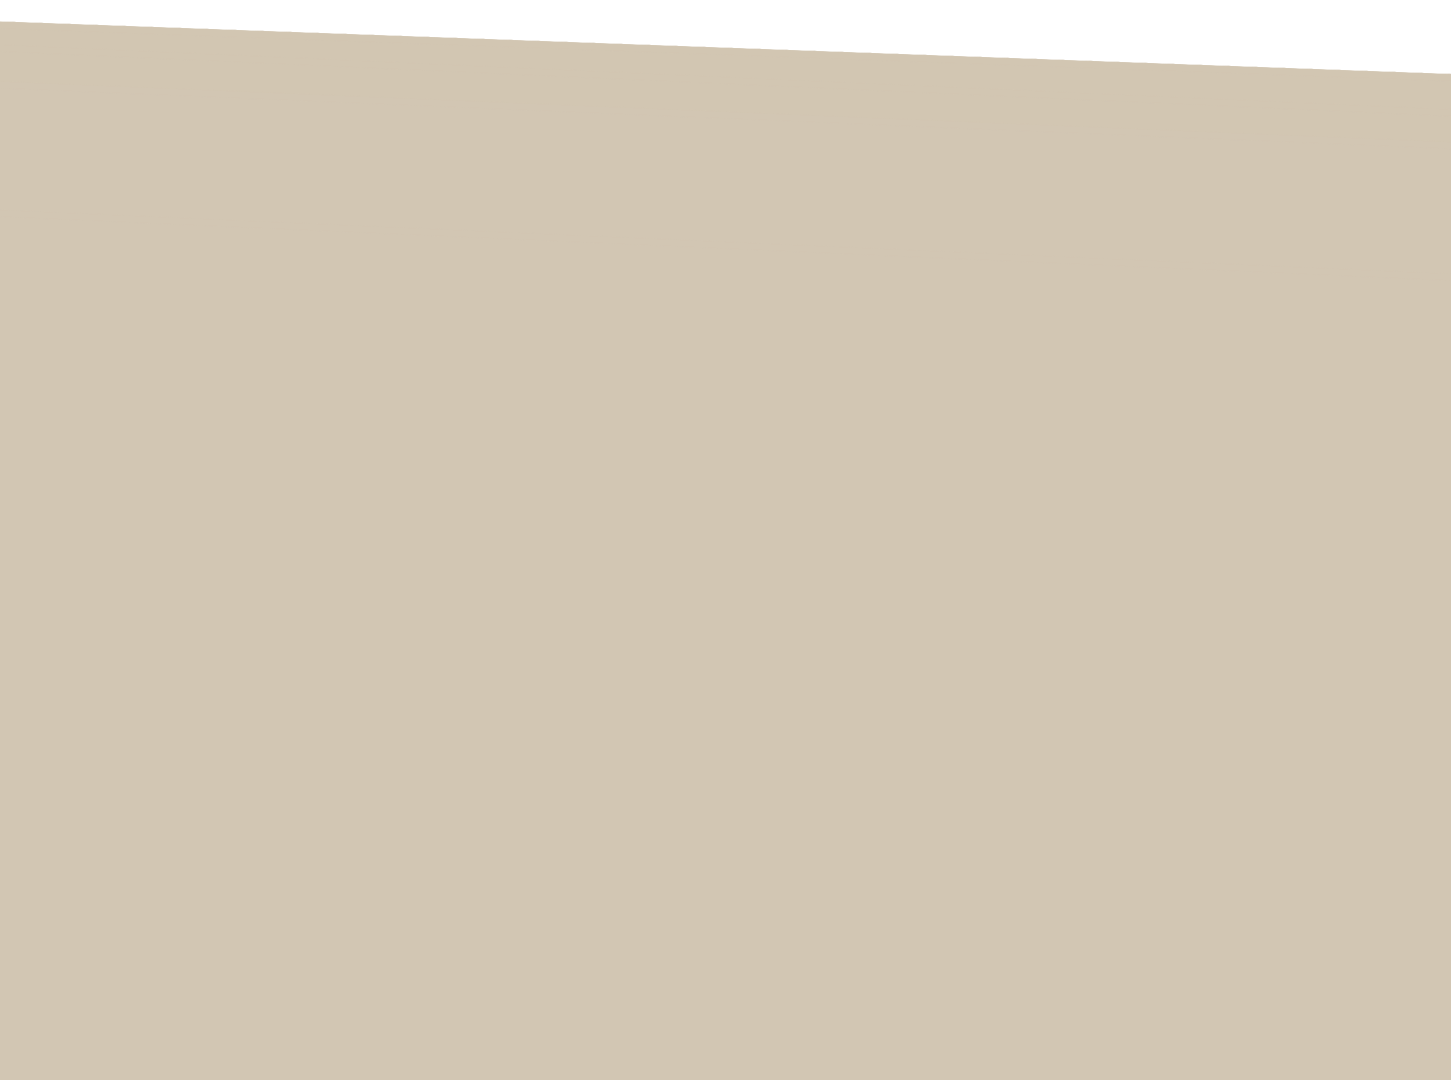
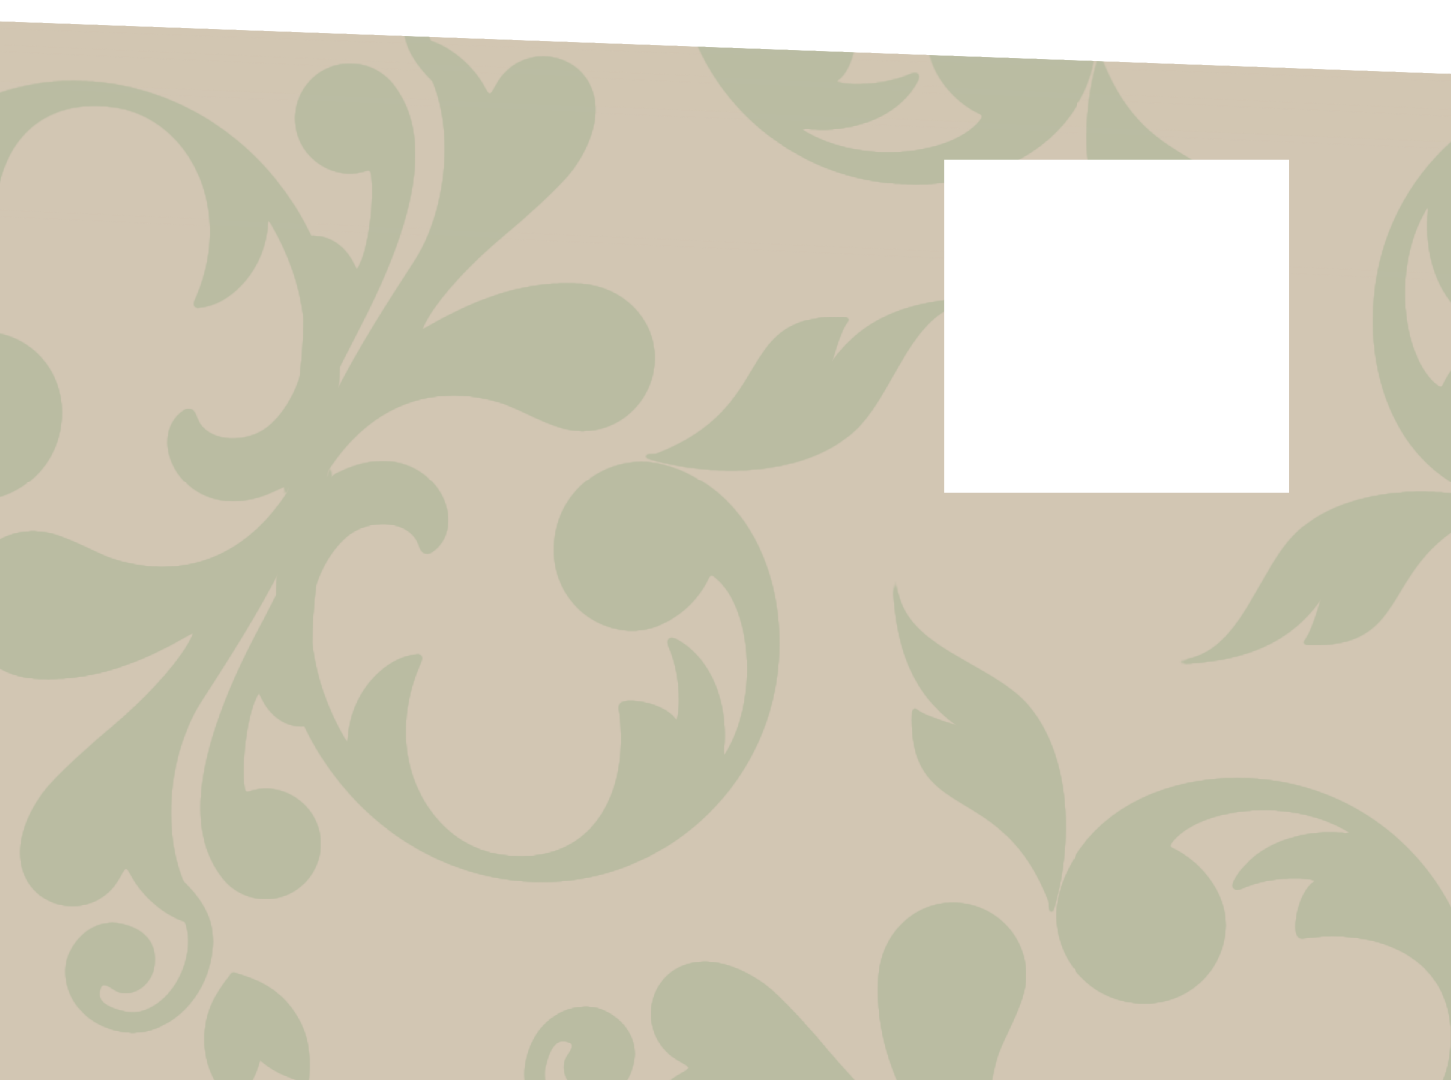
style(home page): add window decor

Changed region(s): [[0.6513, 0.1222, 0.8994, 0.4583]]

diff --git a/src/Components/Home/Welcome/Welcome.js b/src/Components/Home/Welcome/Welcome.js
@@ -2,49 +2,47 @@ import React, { Component } from "react";
 import Fade from "react-reveal/Fade";
 import LightSpeed from "react-reveal/LightSpeed";
 import Presentation from "./Presentation/Presentation";
-import Jukebox from "./Jukebox/Jukebox";
+import Radio from "./Radio/Radio";
+import Window from "./Window/Window";
 import "react-h5-audio-player/lib/styles.css";
 import "./Welcome.css";
 import AudioPlayer from "./Audio-player/AudioPlayer";
 import PlayButton from "./Play-button/PlayButton";
-import { queryByTestId } from "@testing-library/react";
+import Shelf from "./Shelf/Shelf";
+import MusicFrame from "./Music-frame/MusicFrame";
 
 class Welcome extends Component {
   constructor(props) {
     super(props);
     this.state = {
       displayAudioPlayer: false,
-      handleShakeJukebox: false,
+      shakeRadio: false,
     };
   }
 
   handleDisplayAudioPlayer = () => {
-    const jukebox = document.getElementById("jukebox");
-    this.setState(
-      { displayAudioPlayer: true, handleShakeJukebox: true },
-      () => {
-        if (this.state.handleShakeJukebox === true) {
-          jukebox.style.animationPlayState = "running";
-        }
-        console.log(this.state.handleShakeJukebox);
-      }
-    );
-  };
-
-  playShakeJukebox = (e) => {
-    const jukebox = document.getElementById("jukebox");
-    this.setState({ handleShakeJukebox: true }, () => {
-      if (this.state.handleShakeJukebox === true) {
-        jukebox.style.animationPlayState = "running";
+    const radio = document.getElementById("radio");
+    this.setState({ displayAudioPlayer: true, shakeRadio: true }, () => {
+      if (this.state.shakeRadio === true) {
+        radio.style.animationPlayState = "running";
       }
     });
   };
 
-  pauseShakeJukebox = (e) => {
-    const jukebox = document.getElementById("jukebox");
-    this.setState({ handleShakeJukebox: false }, () => {
-      if (this.state.handleShakeJukebox === false) {
-        jukebox.style.animationPlayState = "paused";
+  pauseShakeRadio = (e) => {
+    const radio = document.getElementById("radio");
+    this.setState({ shakeRadio: false }, () => {
+      if (this.state.shakeRadio === false) {
+        radio.style.animationPlayState = "paused";
+      }
+    });
+  };
+
+  playShakeRadio = (e) => {
+    const radio = document.getElementById("radio");
+    this.setState({ shakeRadio: true }, () => {
+      if (this.state.shakeRadio === true) {
+        radio.style.animationPlayState = "running";
       }
     });
   };
@@ -62,23 +60,41 @@ class Welcome extends Component {
                 <Presentation text="My name is Bertrand, I'm a Web and Mobile Developer" />
               </Fade>
             </div>
-            <div id="jukebox-wrapper" className="flex flex-col items-center">
-              <Jukebox />
+            <div className="flex flex-col -mt-10">
+              <Window />
+              <Shelf />
+              <div className="flex justify-around -mt-56">
+                <Radio />
+                <MusicFrame />
+              </div>
               {this.state.displayAudioPlayer === false ? (
-                <>
-                  <span className="ironick text-4xl">
-                    Pour une navigation en musique :
-                  </span>
-                  <PlayButton
-                    handleDisplayAudioPlayer={this.handleDisplayAudioPlayer}
-                  />
-                </>
+                <PlayButton
+                  handleDisplayAudioPlayer={this.handleDisplayAudioPlayer}
+                />
               ) : (
                 <AudioPlayer
-                  pauseShakeJukebox={this.pauseShakeJukebox}
-                  playShakeJukebox={this.playShakeJukebox}
+                  pauseShakeRadio={this.pauseShakeRadio}
+                  playShakeRadio={this.playShakeRadio}
                 />
               )}
+              {/* <div id="radio-wrapper" className="flex flex-col items-center">
+                <Radio />
+                {this.state.displayAudioPlayer === false ? (
+                  <>
+                    <span className="ironick text-4xl">
+                      Pour une navigation en musique :
+                    </span>
+                    <PlayButton
+                      handleDisplayAudioPlayer={this.handleDisplayAudioPlayer}
+                    />
+                  </>
+                ) : (
+                  <AudioPlayer
+                    pauseShakeradio={this.pauseShakeradio}
+                    playShakeradio={this.playShakeradio}
+                  />
+                )}
+              </div> */}
             </div>
           </div>
         </section>

diff --git a/src/Components/Home/Welcome/Radio/Radio.css b/src/Components/Home/Welcome/Radio/Radio.css
@@ -1,0 +1,34 @@
+#radio {
+  width: 200px;
+  animation: shake 1s cubic-bezier(0.16, 0.01, 0.1, 0.5) both infinite;
+  backface-visibility: hidden;
+  animation-play-state: paused;
+  perspective: 1000px;
+}
+
+#radio:hover {
+  animation: shake 1s cubic-bezier(0.16, 0.01, 0.1, 0.5) both infinite;
+}
+
+@keyframes shake {
+  10%,
+  90% {
+    transform: translate3d(-1px, 0, 0);
+  }
+
+  20%,
+  80% {
+    transform: translate3d(1px, 0, 0);
+  }
+
+  30%,
+  50%,
+  70% {
+    transform: translate3d(-1px, 0, 0);
+  }
+
+  40%,
+  60% {
+    transform: translate3d(1px, 0, 0);
+  }
+}

diff --git a/src/Components/Home/Welcome/Audio-player/AudioPlayer.js b/src/Components/Home/Welcome/Audio-player/AudioPlayer.js
@@ -4,7 +4,7 @@ import RHAP from "react-h5-audio-player";
 
 const AudioPlayer = (props) => {
   return (
-    <div id="player" className="mt-8">
+    <div id="player" className="mt-4">
       <RHAP
         id="toto"
         src={Music}
@@ -12,8 +12,8 @@ const AudioPlayer = (props) => {
         loop
         autoPlay={true}
         volume={0.1}
-        onPause={props.pauseShakeJukebox}
-        onPlay={props.playShakeJukebox}
+        onPause={props.pauseShakeRadio}
+        onPlay={props.playShakeRadio}
       />
     </div>
   );

diff --git a/src/Components/Home/Welcome/Welcome.css b/src/Components/Home/Welcome/Welcome.css
@@ -3,10 +3,10 @@
   background-image: url("../../../assets/img/background.png");
   margin-top: -35px;
   background-size: cover;
-  height: 89vh;
   perspective: 800px;
   position: absolute;
   width: 100%;
+  height: 89vh;
   top: 150px;
 }
 
@@ -17,7 +17,7 @@ h1 {
   text-shadow: 4px 4px 3px aliceblue;
 }
 
-#jukebox-wrapper {
+#radio-wrapper {
   margin-right: 10rem;
 }
 

diff --git a/src/Components/Home/Welcome/Play-button/PlayButton.js b/src/Components/Home/Welcome/Play-button/PlayButton.js
@@ -2,7 +2,7 @@ import "./PlayButton.css";
 
 const PlayButton = (props) => {
   return (
-    <div id="shadow" className="mt-6">
+    <div id="shadow" className="mt-6 mx-auto">
       <div id="contour">
         <button id="play" onClick={props.handleDisplayAudioPlayer}>PLAY ME !</button>
       </div>

diff --git a/src/Components/Home/Welcome/Window/Window.js b/src/Components/Home/Welcome/Window/Window.js
@@ -1,0 +1,12 @@
+import "./Window.css";
+import radioImg from "../../../../assets/img/old-window3.png";
+
+const Window = () => {
+  return (
+    <div id="window" className="radio mt-10">
+      <img src={radioImg} alt="radio" id="window" />
+    </div>
+  );
+};
+
+export default Window;

diff --git a/src/Components/Home/Welcome/Music-frame/MusicFrame.js b/src/Components/Home/Welcome/Music-frame/MusicFrame.js
@@ -1,0 +1,8 @@
+import "./MusicFrame.css";
+import MusicFrameImg from "../../../../assets/img/frame5.png";
+
+const MusicFrame = () => {
+  return <img src={MusicFrameImg} alt="Cadre photo style musique" id="music-frame" className="-ml-20 mb-6"/>;
+};
+
+export default MusicFrame;

diff --git a/src/Components/Home/Welcome/Radio/Radio.js b/src/Components/Home/Welcome/Radio/Radio.js
@@ -1,0 +1,12 @@
+import './Radio.css';
+import RadioImg from '../../../../assets/img/radio.png';
+
+const Radio = () => {
+    return(
+        <div>
+          <img src={RadioImg} alt="Radio" id="radio" />
+        </div>
+    )
+}
+
+export default Radio;

diff --git a/src/Components/Home/Welcome/Shelf/Shelf.js b/src/Components/Home/Welcome/Shelf/Shelf.js
@@ -1,0 +1,8 @@
+import './Shelf.css';
+import ShelfImg from "../../../../assets/img/shelf.png";
+
+const Shelf = () => {
+  return <img src={ShelfImg} alt="Etagère" id="shelf" />;
+};
+
+export default Shelf;

diff --git a/src/Components/Home/Welcome/Music-frame/MusicFrame.css b/src/Components/Home/Welcome/Music-frame/MusicFrame.css
@@ -1,0 +1,4 @@
+#music-frame {
+  width: 200px;
+  transform: rotateY(-15deg);
+}

diff --git a/src/Components/Home/Welcome/Window/Window.css b/src/Components/Home/Welcome/Window/Window.css
@@ -1,0 +1,3 @@
+#window {
+    width: 600px;
+}
